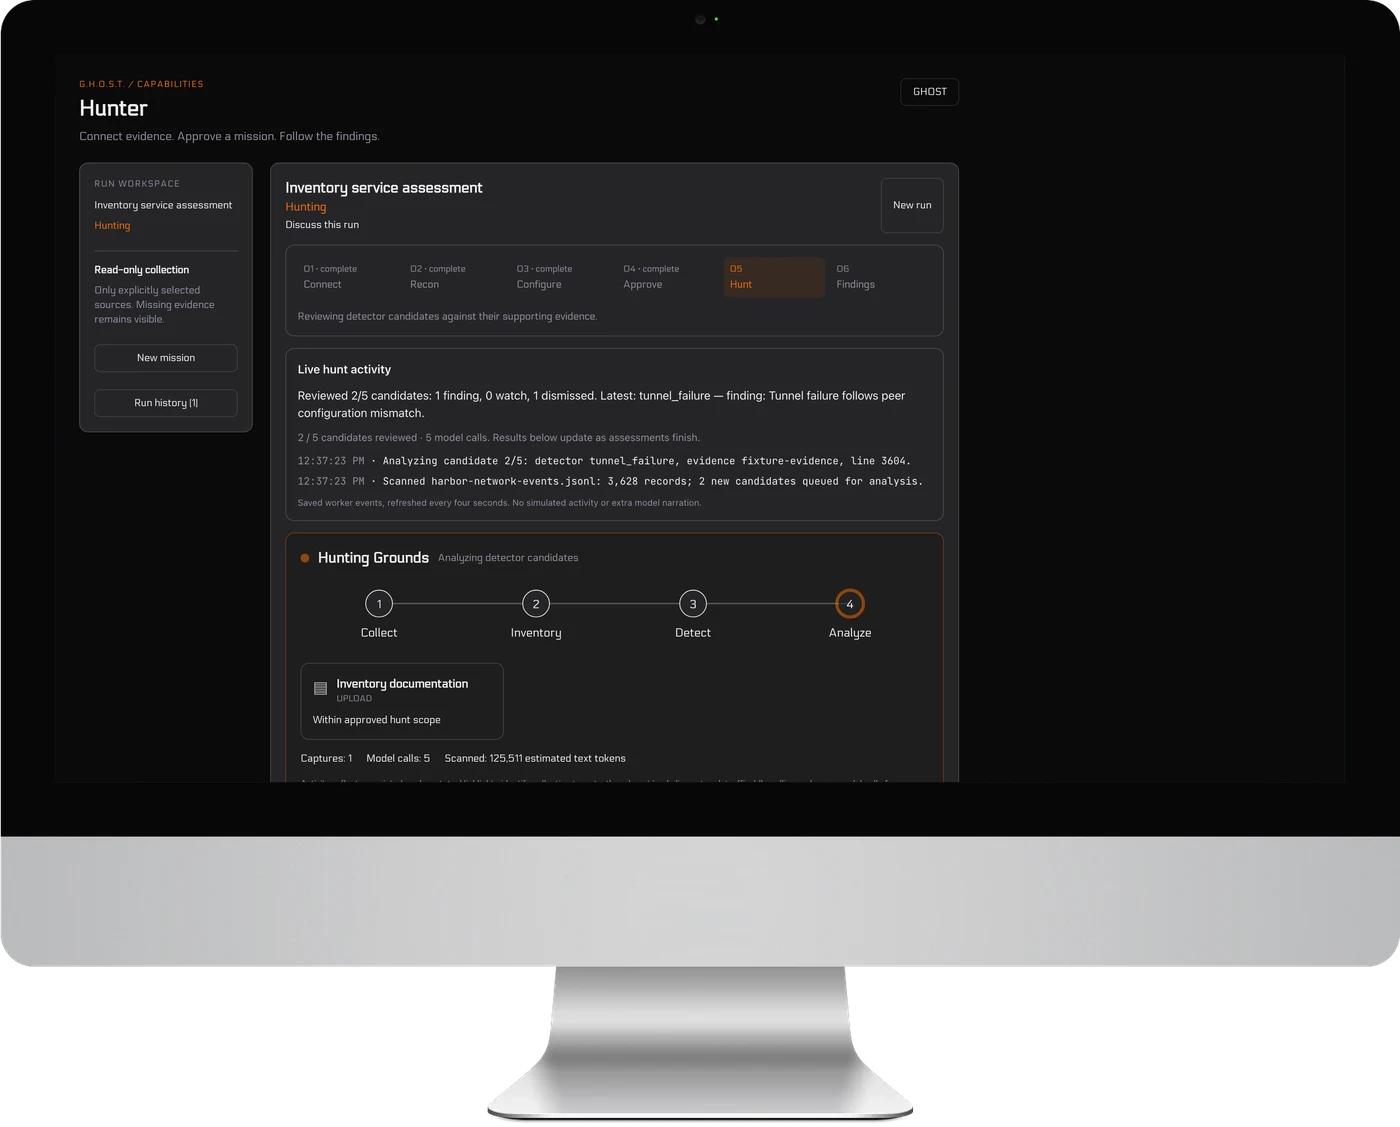
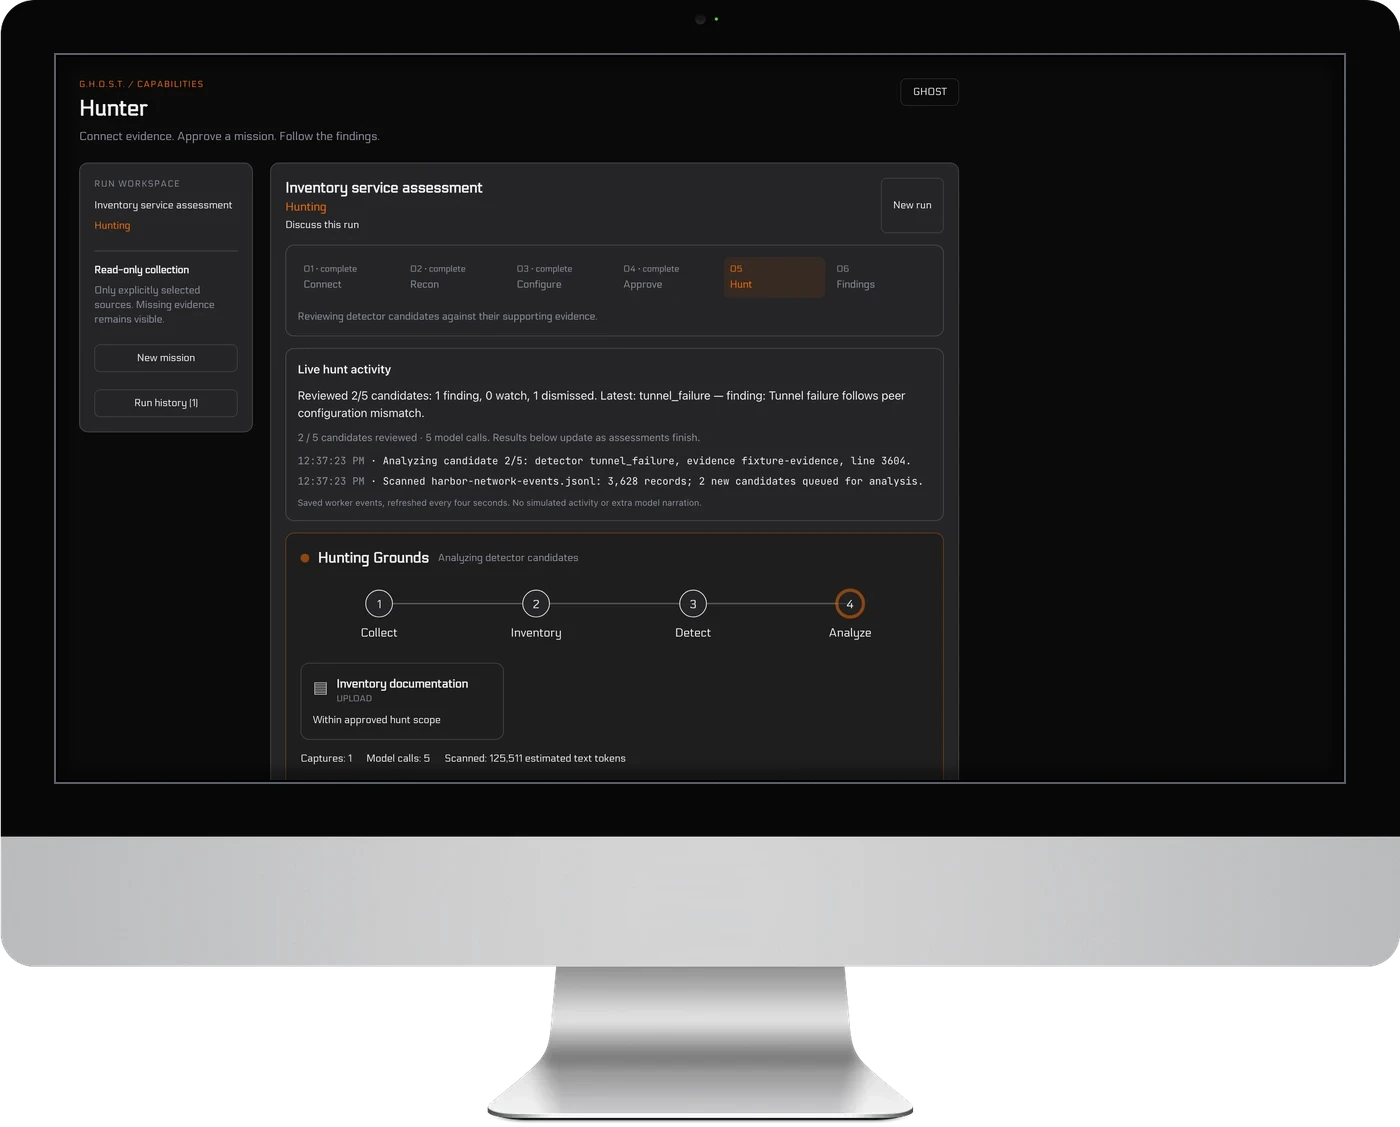
Ghost computers: black bezel and glass edge so screens read as real Macs

Changed region(s): [[0.215, 0.6832, 0.6757, 0.7143]]

diff --git a/capabilities.html b/capabilities.html
@@ -9,7 +9,7 @@
 <link rel="icon" href="assets/img/favicon.svg" type="image/svg+xml">
 <link rel="preload" href="assets/fonts/barlow-600.woff2" as="font" type="font/woff2" crossorigin>
 <link rel="preload" href="assets/fonts/barlow-800.woff2" as="font" type="font/woff2" crossorigin>
-<link rel="stylesheet" href="css/site.css?v=20261102k">
+<link rel="stylesheet" href="css/site.css?v=20261102g">
 <script>(function(d){d.className+=" js";try{if(!matchMedia("(prefers-reduced-motion: reduce)").matches&&"IntersectionObserver" in window)d.className+=" motion"}catch(e){}})(document.documentElement);</script>
 </head>
 <body class="statement-page">

diff --git a/404.html b/404.html
@@ -9,7 +9,7 @@
 <link rel="icon" href="/assets/img/favicon.svg" type="image/svg+xml">
 <link rel="preload" href="/assets/fonts/barlow-600.woff2" as="font" type="font/woff2" crossorigin>
 <link rel="preload" href="/assets/fonts/barlow-800.woff2" as="font" type="font/woff2" crossorigin>
-<link rel="stylesheet" href="/css/site.css?v=20261102k">
+<link rel="stylesheet" href="/css/site.css?v=20261102g">
 <script>(function(d){d.className+=" js";try{if(!matchMedia("(prefers-reduced-motion: reduce)").matches&&"IntersectionObserver" in window)d.className+=" motion"}catch(e){}})(document.documentElement);</script>
 </head>
 <body>

diff --git a/about.html b/about.html
@@ -9,7 +9,7 @@
 <link rel="icon" href="assets/img/favicon.svg" type="image/svg+xml">
 <link rel="preload" href="assets/fonts/barlow-600.woff2" as="font" type="font/woff2" crossorigin>
 <link rel="preload" href="assets/fonts/barlow-800.woff2" as="font" type="font/woff2" crossorigin>
-<link rel="stylesheet" href="css/site.css?v=20261102k">
+<link rel="stylesheet" href="css/site.css?v=20261102g">
 <script>(function(d){d.className+=" js";try{if(!matchMedia("(prefers-reduced-motion: reduce)").matches&&"IntersectionObserver" in window)d.className+=" motion"}catch(e){}})(document.documentElement);</script>
 </head>
 <body>

diff --git a/contact.html b/contact.html
@@ -9,7 +9,7 @@
 <link rel="icon" href="assets/img/favicon.svg" type="image/svg+xml">
 <link rel="preload" href="assets/fonts/barlow-600.woff2" as="font" type="font/woff2" crossorigin>
 <link rel="preload" href="assets/fonts/barlow-800.woff2" as="font" type="font/woff2" crossorigin>
-<link rel="stylesheet" href="css/site.css?v=20261102k">
+<link rel="stylesheet" href="css/site.css?v=20261102g">
 <script>(function(d){d.className+=" js";try{if(!matchMedia("(prefers-reduced-motion: reduce)").matches&&"IntersectionObserver" in window)d.className+=" motion"}catch(e){}})(document.documentElement);</script>
 </head>
 <body>

diff --git a/employee-benefits.html b/employee-benefits.html
@@ -9,7 +9,7 @@
 <link rel="icon" href="assets/img/favicon.svg" type="image/svg+xml">
 <link rel="preload" href="assets/fonts/barlow-600.woff2" as="font" type="font/woff2" crossorigin>
 <link rel="preload" href="assets/fonts/barlow-800.woff2" as="font" type="font/woff2" crossorigin>
-<link rel="stylesheet" href="css/site.css?v=20261102k">
+<link rel="stylesheet" href="css/site.css?v=20261102g">
 <script>(function(d){d.className+=" js";try{if(!matchMedia("(prefers-reduced-motion: reduce)").matches&&"IntersectionObserver" in window)d.className+=" motion"}catch(e){}})(document.documentElement);</script>
 </head>
 <body>

diff --git a/employee-portal.html b/employee-portal.html
@@ -9,7 +9,7 @@
 <link rel="icon" href="assets/img/favicon.svg" type="image/svg+xml">
 <link rel="preload" href="assets/fonts/barlow-600.woff2" as="font" type="font/woff2" crossorigin>
 <link rel="preload" href="assets/fonts/barlow-800.woff2" as="font" type="font/woff2" crossorigin>
-<link rel="stylesheet" href="css/site.css?v=20261102k">
+<link rel="stylesheet" href="css/site.css?v=20261102g">
 <script>(function(d){d.className+=" js";try{if(!matchMedia("(prefers-reduced-motion: reduce)").matches&&"IntersectionObserver" in window)d.className+=" motion"}catch(e){}})(document.documentElement);</script>
 </head>
 <body>

diff --git a/index.html b/index.html
@@ -9,7 +9,7 @@
 <link rel="icon" href="assets/img/favicon.svg" type="image/svg+xml">
 <link rel="preload" href="assets/fonts/barlow-600.woff2" as="font" type="font/woff2" crossorigin>
 <link rel="preload" href="assets/fonts/barlow-800.woff2" as="font" type="font/woff2" crossorigin>
-<link rel="stylesheet" href="css/site.css?v=20261102k">
+<link rel="stylesheet" href="css/site.css?v=20261102g">
 <script>(function(d){d.className+=" js";try{if(!matchMedia("(prefers-reduced-motion: reduce)").matches&&"IntersectionObserver" in window)d.className+=" motion"}catch(e){}})(document.documentElement);</script>
 </head>
 <body>

diff --git a/products.html b/products.html
@@ -9,7 +9,7 @@
 <link rel="icon" href="assets/img/favicon.svg" type="image/svg+xml">
 <link rel="preload" href="assets/fonts/barlow-600.woff2" as="font" type="font/woff2" crossorigin>
 <link rel="preload" href="assets/fonts/barlow-800.woff2" as="font" type="font/woff2" crossorigin>
-<link rel="stylesheet" href="css/site.css?v=20261102k">
+<link rel="stylesheet" href="css/site.css?v=20261102g">
 <script>(function(d){d.className+=" js";try{if(!matchMedia("(prefers-reduced-motion: reduce)").matches&&"IntersectionObserver" in window)d.className+=" motion"}catch(e){}})(document.documentElement);</script>
 </head>
 <body>

diff --git a/services.html b/services.html
@@ -9,7 +9,7 @@
 <link rel="icon" href="assets/img/favicon.svg" type="image/svg+xml">
 <link rel="preload" href="assets/fonts/barlow-600.woff2" as="font" type="font/woff2" crossorigin>
 <link rel="preload" href="assets/fonts/barlow-800.woff2" as="font" type="font/woff2" crossorigin>
-<link rel="stylesheet" href="css/site.css?v=20261102k">
+<link rel="stylesheet" href="css/site.css?v=20261102g">
 <script>(function(d){d.className+=" js";try{if(!matchMedia("(prefers-reduced-motion: reduce)").matches&&"IntersectionObserver" in window)d.className+=" motion"}catch(e){}})(document.documentElement);</script>
 </head>
 <body>
